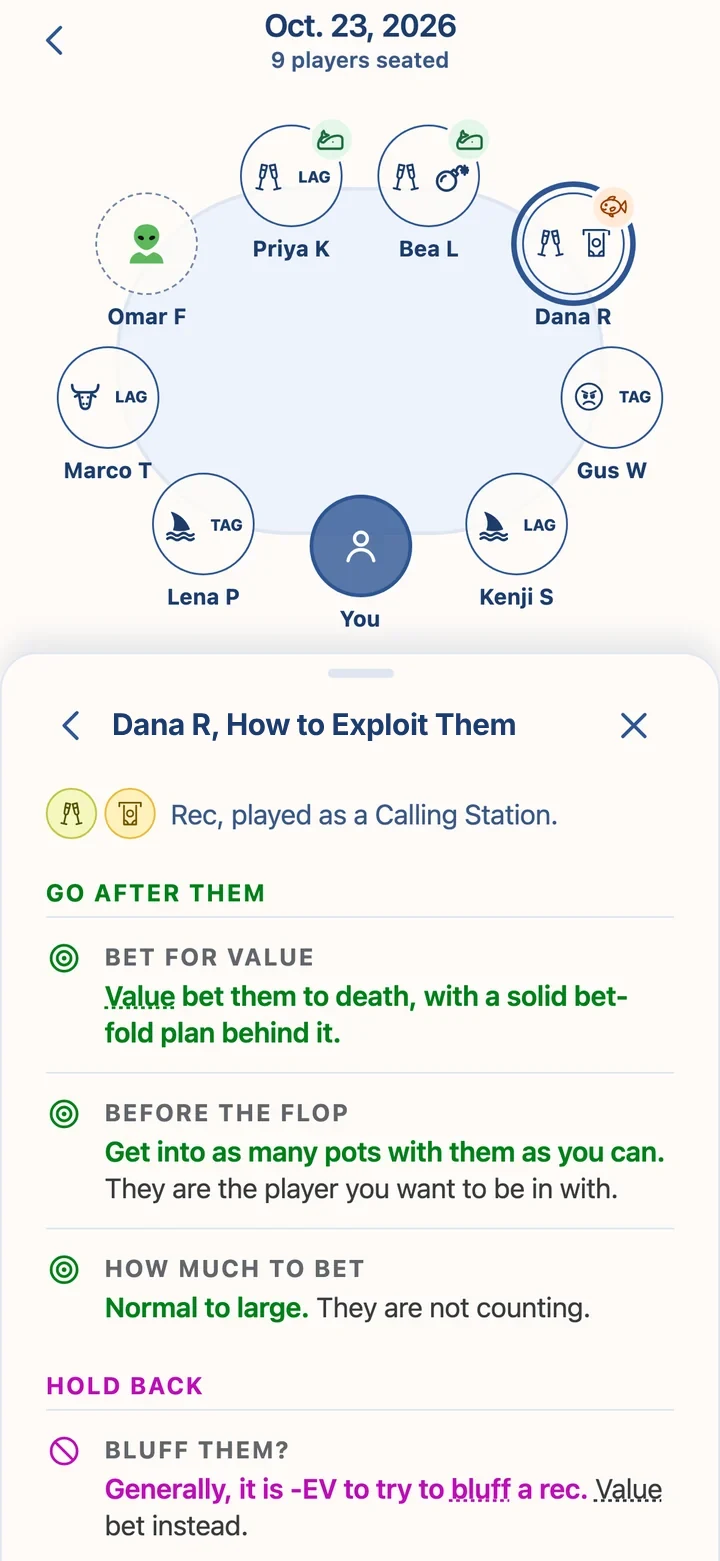
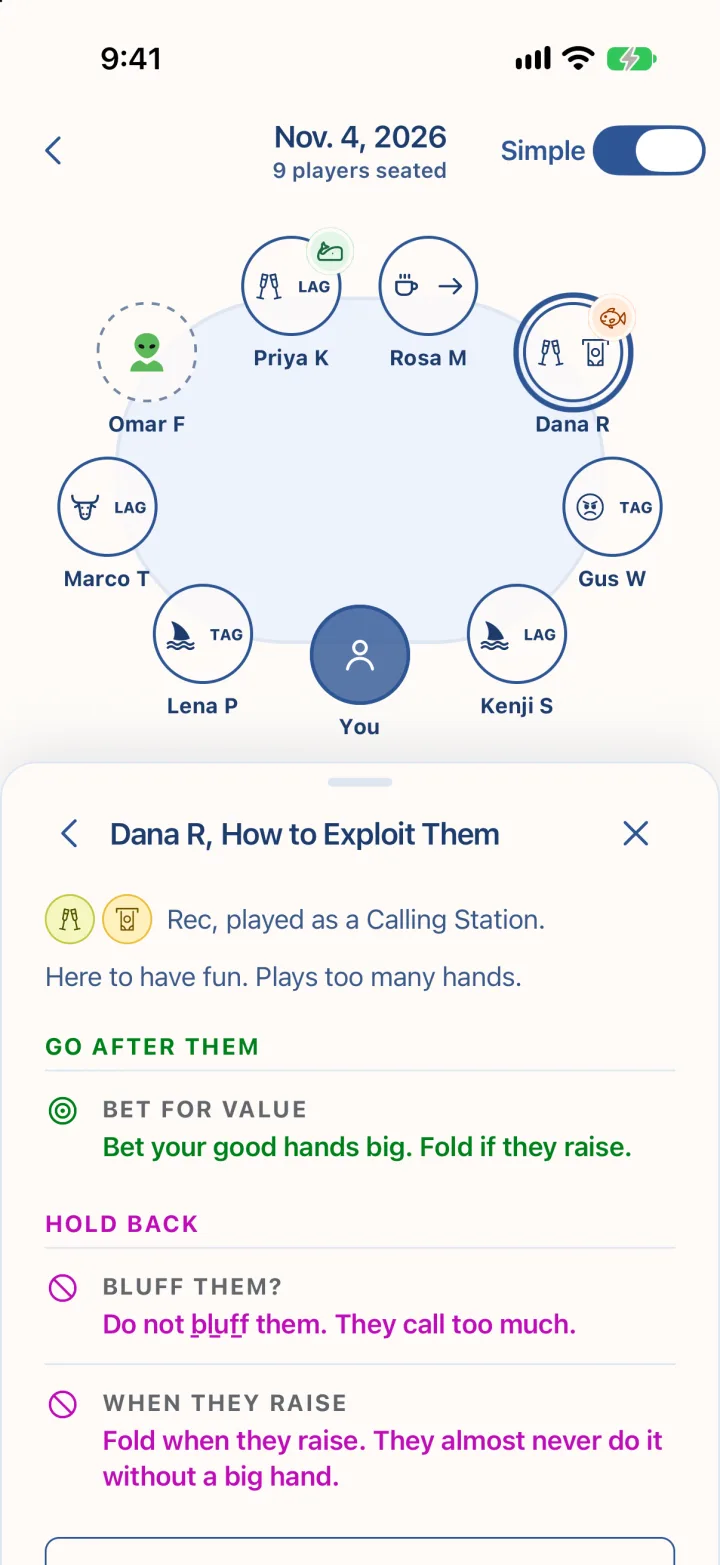
SeatSpy page: Simple mode, Next player, new table and How to Exploit Them screenshots

diff --git a/seatspy/index.html b/seatspy/index.html
@@ -12,7 +12,7 @@
   <meta name="twitter:card" content="summary_large_image">
   <link rel="icon" href="favicon.png">
   <link rel="apple-touch-icon" href="icon.png">
-  <link rel="stylesheet" href="home.css?v=7">
+  <link rel="stylesheet" href="home.css?v=8">
   <script>document.documentElement.classList.add('js');</script>
 </head>
 <body>
@@ -64,8 +64,8 @@
 <section class="showcase" aria-label="SeatSpy screens">
   <div class="phones">
     <figure class="deal t-tilt" style="--x:-2"><div class="phone t-tilt-card"><img src="screens/saved.webp" alt="Saved Players, a list of players with their type icons" width="720" height="1561"><div class="t-tilt-glare"></div></div></figure>
-    <figure class="deal t-tilt" style="--x:-1"><div class="phone t-tilt-card"><img src="screens/home.webp" alt="Home, with the last session and the main actions" width="720" height="1561"><div class="t-tilt-glare"></div></div></figure>
-    <figure class="deal t-tilt deal-main" style="--x:0"><div class="phone t-tilt-card"><img src="screens/howto.webp?v=2" alt="How to exploit them for one player, split into Go after them and Hold back" width="720" height="1561"><div class="t-tilt-glare"></div></div></figure>
+    <figure class="deal t-tilt" style="--x:-1"><div class="phone t-tilt-card"><img src="screens/table-read.webp" alt="The table in Simple mode, with a plain line on how to play each seated player" width="720" height="1565"><div class="t-tilt-glare"></div></div></figure>
+    <figure class="deal t-tilt deal-main" style="--x:0"><div class="phone t-tilt-card"><img src="screens/howto.webp?v=3" alt="How to exploit them for one player in Simple mode, split into Go after them and Hold back" width="720" height="1565"><div class="t-tilt-glare"></div></div></figure>
     <figure class="deal t-tilt" style="--x:1"><div class="phone t-tilt-card"><img src="screens/glossary.webp" alt="The Glossary, with every player type and term" width="720" height="1561"><div class="t-tilt-glare"></div></div></figure>
     <figure class="deal t-tilt" style="--x:2"><div class="phone t-tilt-card"><img src="screens/quiz.webp" alt="The glossary quiz, one card at a time" width="720" height="1561"><div class="t-tilt-glare"></div></div></figure>
   </div>
@@ -80,7 +80,7 @@
     </li>
     <li class="step t-reveal">
       <h3>Tag Their Type</h3>
-      <p>Twelve player types, from Calling Station to Maniac. Not sure yet? <b>Quiz me</b> asks what you have seen and ranks the likely types.</p>
+      <p>Twelve player types, from Calling Station to Maniac. Not sure yet? <b>Quiz me</b> asks what you have seen and ranks the likely types. <b>Next player</b> moves you around the table to the next seat with no type.</p>
     </li>
     <li class="step t-reveal">
       <h3>Exploit Their Mistakes</h3>
@@ -97,12 +97,36 @@
   <div class="advice-text">
     <h2 class="t-reveal">An Exploit for the Player in Front of You</h2>
     <p class="t-reveal">Dana R is a Rec who plays like a Calling Station. Green is what to do against them, and pink is what to hold back on.</p>
+    <p class="t-reveal">SeatSpy starts in Simple mode, with three plain lines for each type: whether to bluff them, what their raise means and how to bet a good hand. Full detail adds sizing, preflop play and the rest of the card. To change modes during a session, use the <b>Simple</b> switch beside the table name.</p>
   </div>
   <article class="verdicts" aria-label="How to exploit Dana R">
+    <fieldset class="detail-switch t-reveal">
+      <legend class="sr">Card detail</legend>
+      <label><input class="sr" type="radio" name="detail" value="simple" checked><span>Simple</span></label>
+      <label><input class="sr" type="radio" name="detail" value="full"><span>Full detail</span></label>
+    </fieldset>
     <header class="verdicts-head t-reveal">
       <h3>Dana R, How to Exploit Them</h3>
       <p>Rec, played as a Calling Station.</p>
+      <p class="detail-simple">Here to have fun. Plays too many hands.</p>
     </header>
+    <div class="detail-simple">
+    <p class="group group-go t-reveal">Go after them</p>
+    <div class="field go t-reveal">
+      <svg class="mark" viewBox="0 0 16 16" aria-hidden="true"><circle cx="8" cy="8" r="6.5"/><circle cx="8" cy="8" r="2.5"/></svg>
+      <div><p class="label">Bet for value</p><p><strong>Bet your good hands big. Fold if they raise.</strong></p></div>
+    </div>
+    <p class="group group-stop t-reveal">Hold back</p>
+    <div class="field stop t-reveal">
+      <svg class="mark" viewBox="0 0 16 16" aria-hidden="true"><circle cx="8" cy="8" r="6.5"/><path d="M3.4 3.4l9.2 9.2"/></svg>
+      <div><p class="label">Bluff them?</p><p><strong>Do not bluff them. They call too much.</strong></p></div>
+    </div>
+    <div class="field stop t-reveal">
+      <svg class="mark" viewBox="0 0 16 16" aria-hidden="true"><circle cx="8" cy="8" r="6.5"/><path d="M3.4 3.4l9.2 9.2"/></svg>
+      <div><p class="label">When they raise</p><p><strong>Fold when they raise. They almost never do it without a big hand.</strong></p></div>
+    </div>
+    </div>
+    <div class="detail-full">
     <p class="group group-go t-reveal">Go after them</p>
     <div class="field go t-reveal">
       <svg class="mark" viewBox="0 0 16 16" aria-hidden="true"><circle cx="8" cy="8" r="6.5"/><circle cx="8" cy="8" r="2.5"/></svg>
@@ -120,6 +144,7 @@
     <div class="field stop t-reveal">
       <svg class="mark" viewBox="0 0 16 16" aria-hidden="true"><circle cx="8" cy="8" r="6.5"/><path d="M3.4 3.4l9.2 9.2"/></svg>
       <div><p class="label">Bluff them?</p><p><strong>Generally, it is -EV to try to bluff a rec.</strong> Value bet instead.</p></div>
+    </div>
     </div>
   </article>
 </section>

diff --git a/seatspy/home.css b/seatspy/home.css
@@ -110,14 +110,14 @@ img { display: block; max-width: 100%; height: auto; }
 .sr { position: absolute; width: 1px; height: 1px; overflow: hidden; clip-path: inset(50%); white-space: nowrap; }
 .beta { width: 100%; }
 .beta-phone { display: flex; justify-content: center; gap: 8px; margin: 0 0 12px; padding: 0; border: 0; }
-.beta-phone label span {
+.beta-phone label span, .detail-switch label span {
   display: inline-flex; align-items: center; min-height: 38px; padding: 0 16px;
   border: 1px solid var(--line); border-radius: 999px; background: #fff;
   color: var(--muted); font-size: 15px; font-weight: 600; cursor: pointer;
   transition: background-color 150ms, border-color 150ms, color 150ms;
 }
-.beta-phone input:checked + span { background: var(--pill); border-color: var(--blue); color: var(--navy); }
-.beta-phone input:focus-visible + span { outline: 3px solid var(--blue); outline-offset: 3px; }
+.beta-phone input:checked + span, .detail-switch input:checked + span { background: var(--pill); border-color: var(--blue); color: var(--navy); }
+.beta-phone input:focus-visible + span, .detail-switch input:focus-visible + span { outline: 3px solid var(--blue); outline-offset: 3px; }
 .beta-fields { display: flex; gap: 8px; max-width: 520px; margin: 0 auto; padding: 6px; background: #fff; border: 1px solid var(--line); border-radius: 999px; transition: border-color 150ms; }
 .beta-fields:focus-within { border-color: var(--blue); }
 .beta-input {
@@ -286,7 +286,7 @@ img { display: block; max-width: 100%; height: auto; }
 /* advice */
 .advice {
   max-width: 1080px; margin: 0 auto; padding: 0 24px 104px;
-  display: grid; grid-template-columns: 1fr minmax(0, 460px); gap: 64px; align-items: center;
+  display: grid; grid-template-columns: 1fr minmax(0, 460px); gap: 64px; align-items: start;
 }
 .advice-text p { margin-top: 16px; color: var(--muted); font-size: 18px; line-height: 28px; }
 .verdicts {
@@ -309,6 +309,9 @@ img { display: block; max-width: 100%; height: auto; }
   font-size: 16px; line-height: 22px;
 }
 .field .label { font-size: 12px; font-weight: 700; letter-spacing: 0.06em; text-transform: uppercase; color: var(--muted); margin-bottom: 2px; }
+.detail-switch { display: flex; gap: 8px; margin: 0 0 20px; padding: 0; border: 0; }
+.detail-full, .verdicts:has([value="full"]:checked) .detail-simple { display: none; }
+.verdicts:has([value="full"]:checked) .detail-full { display: block; }
 .field.go strong { color: var(--go); }
 .field.stop strong { color: var(--stop); }
 .mark { width: 18px; height: 18px; margin-top: 2px; fill: none; stroke-width: 1.8; }
